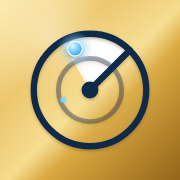
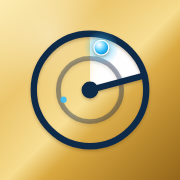
Icona: scia dalle 12 alle 2.30, puntino alle 12.30, azzurro più vivo
Claude-Session: https://claude.ai/code/session_012jX5YcR2hy4Fxh9QAEarvR

Changed region(s): [[0.3333, 0.1667, 0.8056, 0.5278], [0.3333, 0.5278, 0.3889, 0.5833]]

diff --git a/docs/index.html b/docs/index.html
@@ -7,7 +7,7 @@
 <meta property="og:type" content="website">
 <meta property="og:title" content="Radar Certificati">
 <meta property="og:description" content="Cedole, rendimento, distanza dalla barriera e probabilità di tenuta di oltre 13.000 certificati quotati in Italia.">
-<meta property="og:image" content="https://radarcertificati.com/icon-512.png?v=5">
+<meta property="og:image" content="https://radarcertificati.com/icon-512.png?v=6">
 <meta property="og:url" content="https://radarcertificati.com/">
 <meta property="og:site_name" content="Radar Certificati">
 <meta property="og:locale" content="it_IT">
@@ -15,8 +15,8 @@
 <meta name="twitter:card" content="summary">
 <title>Radar Certificati · screener di certificati d'investimento</title>
 <link rel="manifest" href="manifest.webmanifest">
-<link rel="icon" href="icon.svg?v=5" type="image/svg+xml">
-<link rel="apple-touch-icon" href="apple-touch-icon.png?v=5">
+<link rel="icon" href="icon.svg?v=6" type="image/svg+xml">
+<link rel="apple-touch-icon" href="apple-touch-icon.png?v=6">
 <meta name="theme-color" content="#f0eee9" id="theme-color">
 <script>try{var t=JSON.parse(localStorage.getItem("rc-theme"));if(t==="dark"||t==="light")document.documentElement.dataset.theme=t}catch(e){}</script>
 <meta name="apple-mobile-web-app-capable" content="yes">

diff --git a/docs/sw.js b/docs/sw.js
@@ -1,7 +1,7 @@
 // Service worker minimo: rende il sito installabile e usabile offline.
 // Sempre prima la rete. I dati (data/, api/) non vengono mai salvati in cache: una copia vecchia
 // mostrata senza avviso è peggio di un errore. Il resto (pagina, icone) resta disponibile offline.
-const CACHE = "radar-v21";
+const CACHE = "radar-v22";
 self.addEventListener("install", e => self.skipWaiting());
 self.addEventListener("activate", e => e.waitUntil(
   caches.keys().then(ks => Promise.all(ks.filter(k => k !== CACHE).map(k => caches.delete(k)))).then(() => self.clients.claim())
